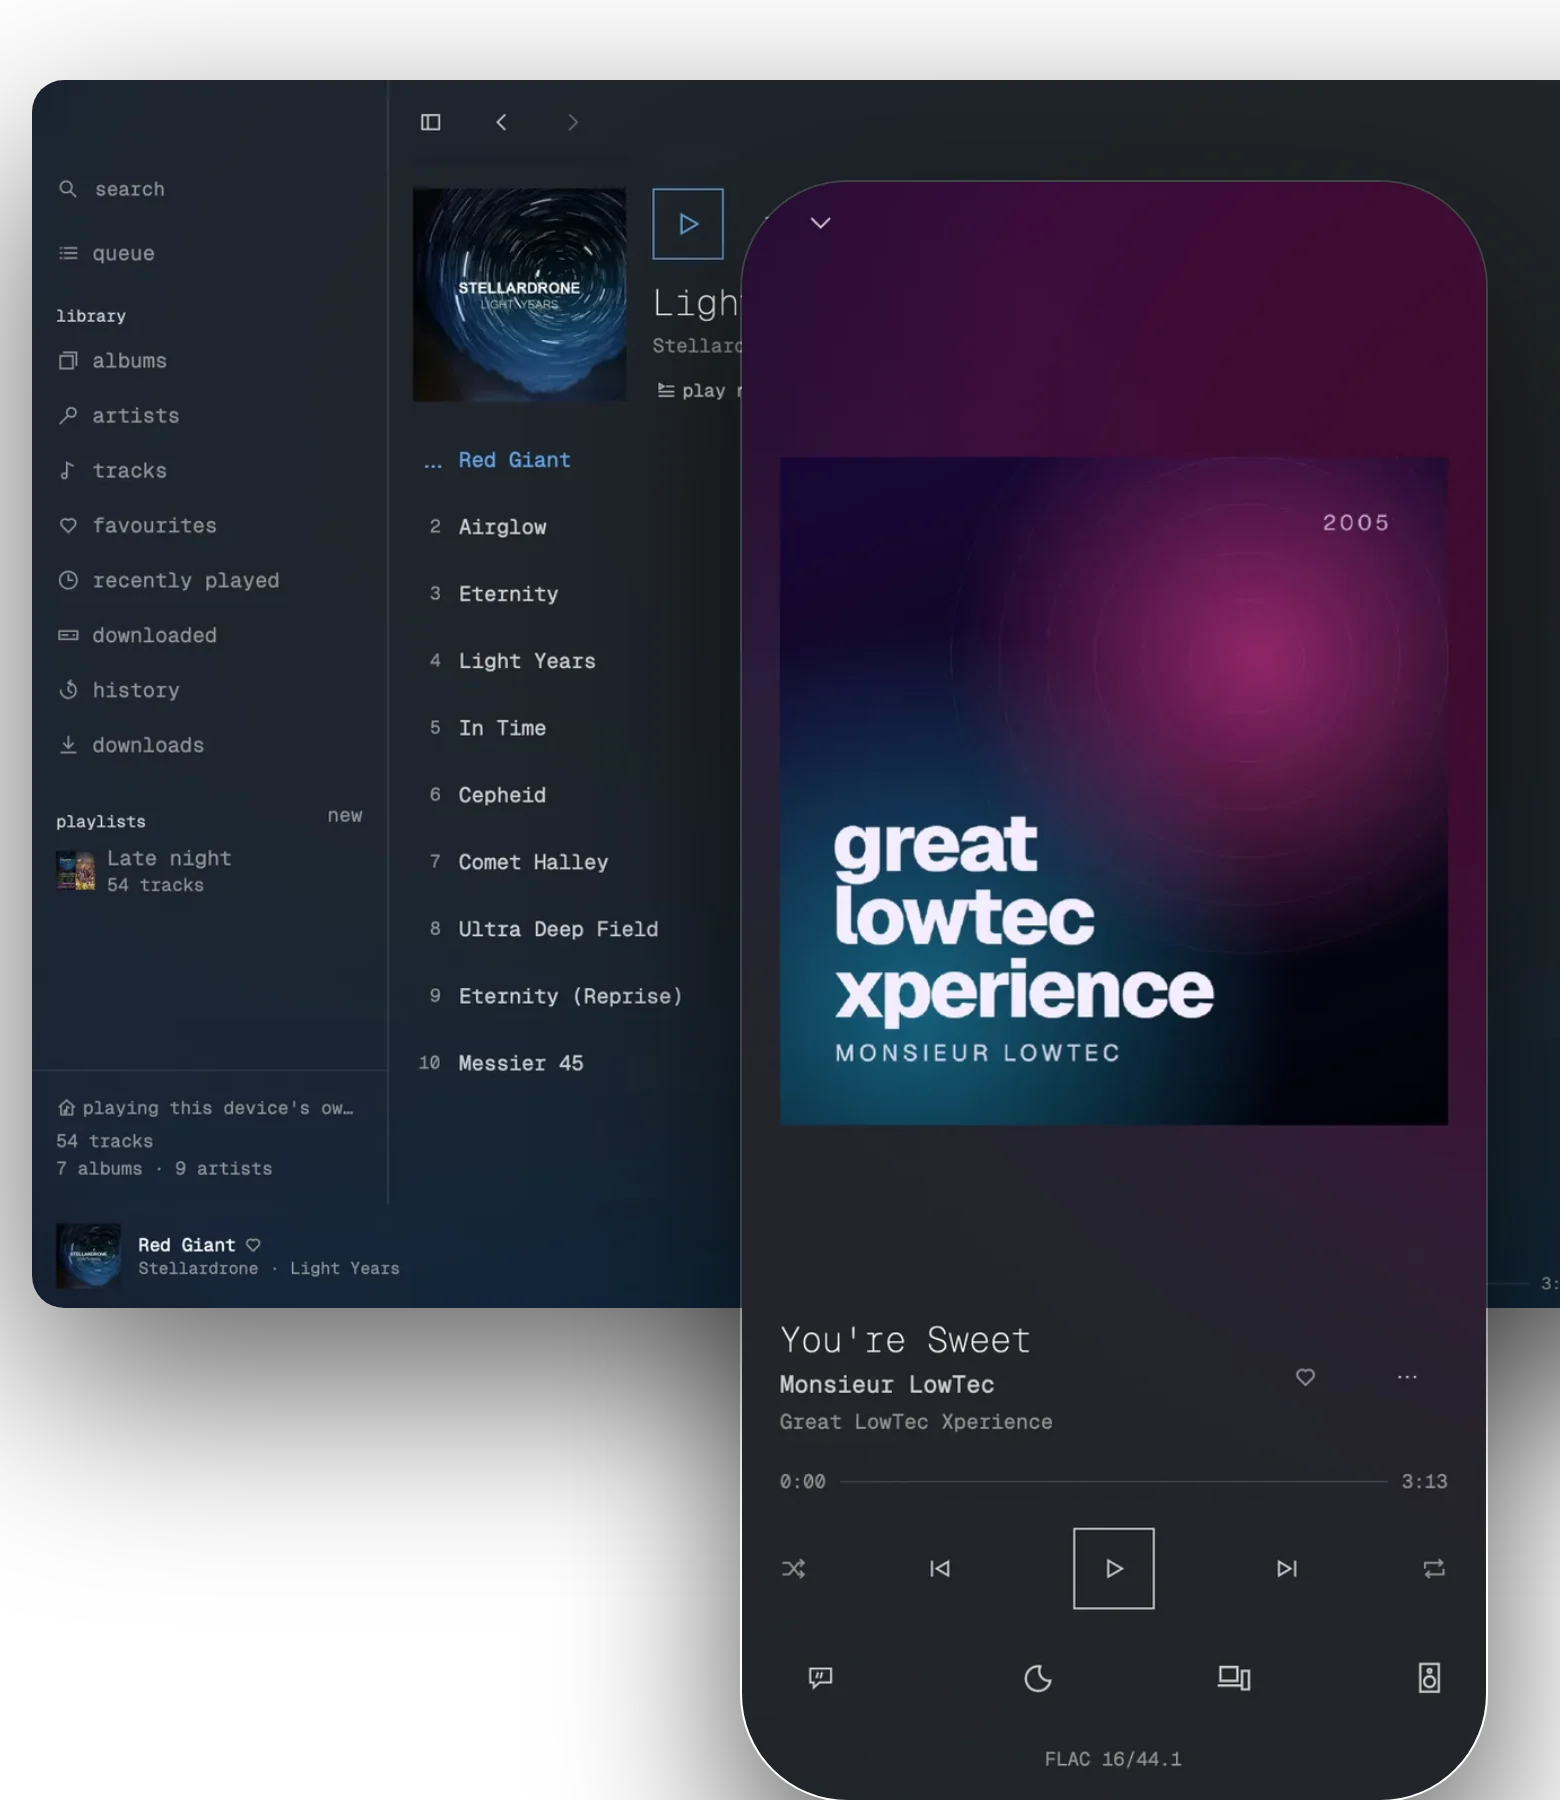
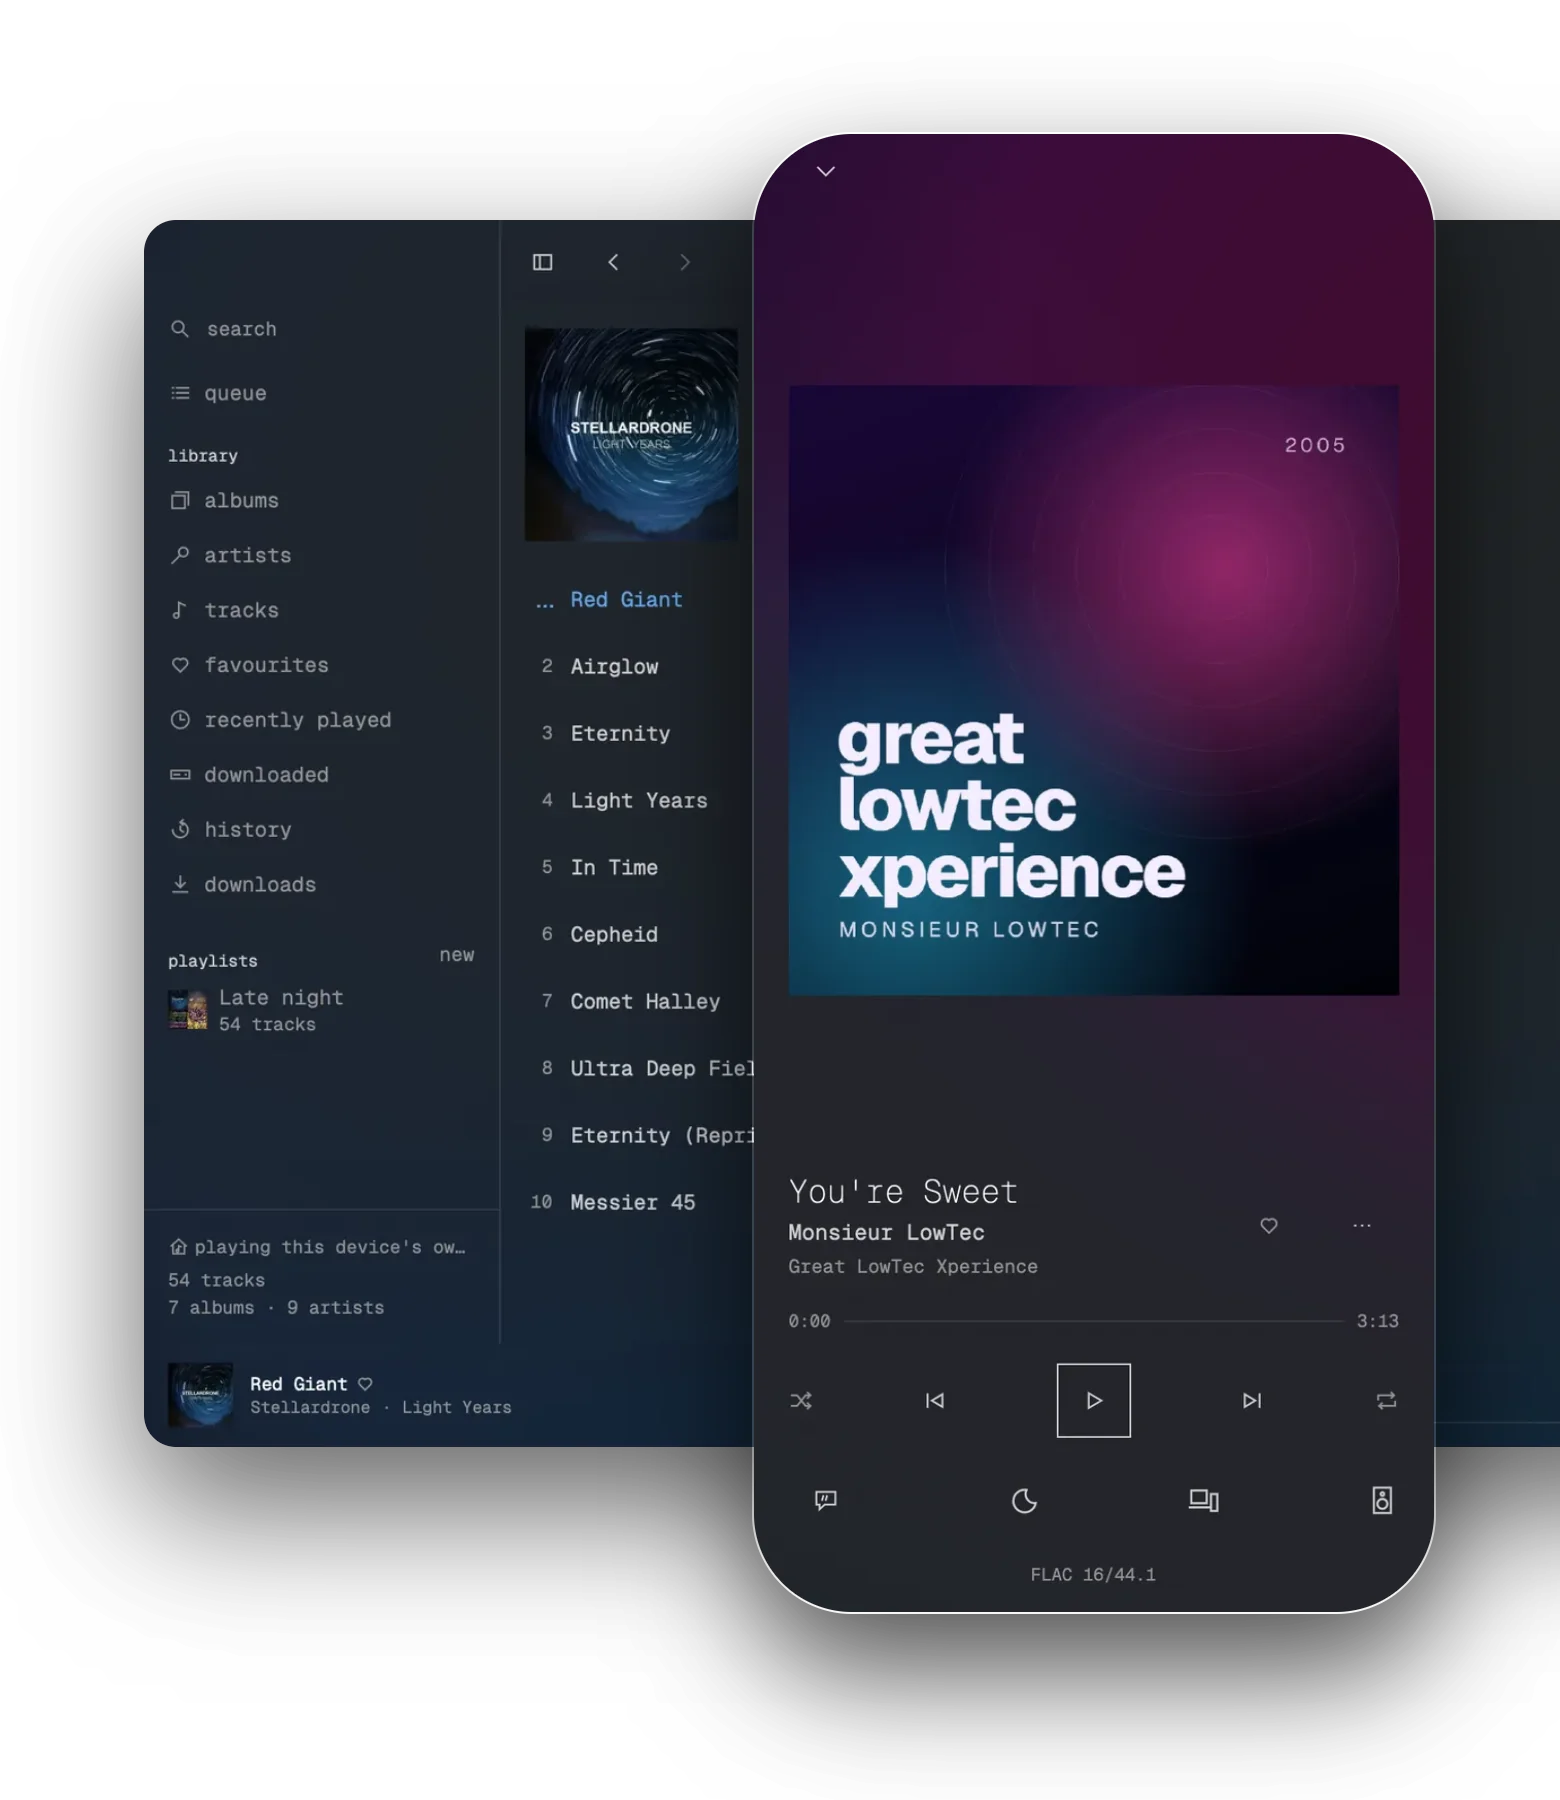
site: keep the hero image's shadows inside the canvas
The desktop window sat 20px from the left edge under a 100px blur and the
phone ran past the right and bottom edges, so the screenshot cut both
shadows off. Both pictures are smaller and set back from the edges by
their shadow's reach.

Claude-Session: https://claude.ai/code/session_016z5eG1nHCp8TBNt1bBcqSx

diff --git a/site/src/hero.html b/site/src/hero.html
@@ -6,7 +6,8 @@
     chrome --headless --hide-scrollbars --force-device-scale-factor=2 --window-size=1600,1000 \
       --default-background-color=00000000 --allow-file-access-from-files --screenshot=hero.png "file://$PWD/src/hero.html"
   At phone widths the page shows public/screens/hero-narrow.webp instead: the same command with --window-size=780,900
-  and #narrow on the URL.
+  and #narrow on the URL. Each picture keeps its shadow's blur plus offset clear of the canvas edges it does not run
+  off, or the screenshot cuts the shadow.
 -->
 <html lang="en-GB">
 <head>
@@ -29,18 +30,18 @@
     }
 
     .mac {
-      left: 20px;
-      top: 150px;
-      width: 1230px;
+      left: 118px;
+      top: 166px;
+      width: 1082px;
       border-radius: 16px;
       box-shadow: 0 40px 100px rgb(0 0 0 / 0.6);
     }
 
     .phone {
-      left: 1180px;
-      top: 60px;
-      width: 390px;
-      border-radius: 58px;
+      left: 1139px;
+      top: 87px;
+      width: 343px;
+      border-radius: 51px;
       border: 1px solid rgb(255 255 255 / 0.14);
       box-shadow: 0 40px 90px rgb(0 0 0 / 0.65);
     }
@@ -51,16 +52,18 @@
     }
 
     .narrow .mac {
-      left: 16px;
-      top: 40px;
+      left: 72px;
+      top: 110px;
       width: 1130px;
+      box-shadow: 0 30px 70px rgb(0 0 0 / 0.6);
     }
 
     .narrow .phone {
-      left: 370px;
-      top: 90px;
-      width: 372px;
-      border-radius: 54px;
+      left: 376px;
+      top: 66px;
+      width: 340px;
+      border-radius: 50px;
+      box-shadow: 0 30px 60px rgb(0 0 0 / 0.65);
     }
   </style>
 </head>
